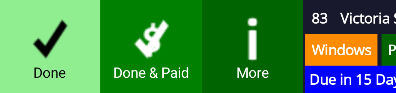
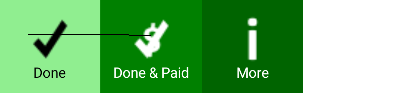
more work

Changed region(s): [[0.7576, 0.0, 1.0, 1.0], [0.0606, 0.3656, 0.3939, 0.3871]]

diff --git a/WorkTracker/Layouts/WorkPlanner.xaml b/WorkTracker/Layouts/WorkPlanner.xaml
@@ -287,7 +287,14 @@
                                     <MenuFlyoutItem Text="Edit Details" CommandParameter="{Binding Id}" Clicked="On_Job_Detials" />
                                 </MenuFlyout>
                             </FlyoutBase.ContextFlyout>
-                            <Grid TranslationX="-32" x:Name="g_workList" ChildAdded="g_childAdded">
+                            <!-- cancelled jobs collapse to this greyed single line -->
+                            <HorizontalStackLayout IsVisible="{Binding HaveCanceled}" Opacity="0.4" Padding="2">
+                                <Label Text="{Binding JobFormattedHouseNumber}" FontAttributes="Bold" TextDecorations="Strikethrough" Padding="4,2" />
+                                <Label Text="{Binding JobFormattedStreetOnly}" FontAttributes="Bold" TextDecorations="Strikethrough" Padding="4,2" />
+                                <Label Text="{Binding JobFormattedCity}" TextDecorations="Strikethrough" Padding="4,2" />
+                                <Label Text="Cancelled" TextColor="Red" FontAttributes="Bold" Padding="4,2" />
+                            </HorizontalStackLayout>
+                            <Grid TranslationX="-32" x:Name="g_workList" ChildAdded="g_childAdded" IsVisible="{Binding NotCanceled}">
                                 <Grid.RowDefinitions>
                                     <RowDefinition></RowDefinition>
                                     <RowDefinition></RowDefinition>
@@ -310,7 +317,7 @@
                                     IsChecked="{Binding IsSelected}"
                                     CheckedChanged="cb_streetSelected"  ClassId="{Binding Id}" PropertyChanged="test"></CheckBox>
 
-                                <ImageButton Grid.Column="3" Grid.Row="0" Grid.RowSpan="2" Source="info.png" Scale="1"  HeightRequest="30" Clicked="bnt_info_Clicked"  ClassId="{Binding Id}"></ImageButton>
+                                <ImageButton Grid.Column="3" Grid.Row="0" Grid.RowSpan="2" Source="info.png" HeightRequest="34" WidthRequest="34" Padding="5" CornerRadius="17" BackgroundColor="#1E88E5" HorizontalOptions="Center" VerticalOptions="Center" Clicked="bnt_info_Clicked"  ClassId="{Binding Id}"></ImageButton>
                                 <HorizontalStackLayout  Grid.Column="1" Grid.Row="0" Grid.ColumnSpan="2">
                                     <Label Text="{Binding JobFormattedHouseNumber}" FontAttributes="Bold" Padding="6" />
                                     <Label Text="{Binding JobFormattedStreetOnly}" FontAttributes="Bold" Padding="6" >

diff --git a/WorkTracker/Layouts/BookedWork.xaml b/WorkTracker/Layouts/BookedWork.xaml
@@ -24,6 +24,7 @@
                         <SwipeItems>
                             <SwipeItem Text="Done" IconImageSource="tick.png" CommandParameter="{Binding .}" BackgroundColor="#4CAF50" Invoked="On_Job_Compleated"/>
                             <SwipeItem Text="Done &amp; Paid" IconImageSource="donepaid.png" CommandParameter="{Binding .}" BackgroundColor="#2E7D32" Invoked="On_Job_Paid"/>
+                            <SwipeItem Text="More" IconImageSource="more.png" CommandParameter="{Binding .}" BackgroundColor="#546E7A" Invoked="On_Job_More"/>
                         </SwipeItems>
                     </SwipeView.LeftItems>
                     <SwipeView.RightItems>
@@ -45,6 +46,7 @@
                             <MenuFlyout>
                                 <MenuFlyoutItem Text="Done" CommandParameter="{Binding .}" Clicked="On_Job_Compleated"/>
                                 <MenuFlyoutItem Text="Done &amp; Paid" CommandParameter="{Binding .}" Clicked="On_Job_Paid"/>
+                                <MenuFlyoutItem Text="More" CommandParameter="{Binding .}" Clicked="On_Job_More"/>
                                 <MenuFlyoutSeparator/>
                                 <MenuFlyoutItem Text="Skip" CommandParameter="{Binding .}" Clicked="On_Job_Skipped"/>
                                 <MenuFlyoutItem Text="Cancel Job" CommandParameter="{Binding .}" Clicked="On_Job_Canceled"/>

diff --git a/WorkTracker/Layouts/ViewCustomerDetails.xaml b/WorkTracker/Layouts/ViewCustomerDetails.xaml
@@ -13,10 +13,8 @@
 
         <Label></Label>
 
-        <!-- grid overlay so the "Customer" caption always sits on the box's top
-             border no matter how tall the box is -->
         <Grid Padding="8">
-            <Border Stroke="{AppThemeBinding Light=black, Dark=white}" StrokeThickness="2" StrokeShape="Rectangle" Padding="4" Margin="0,14,0,0" >
+            <Border Stroke="{AppThemeBinding Light=black, Dark=white}" StrokeThickness="2" StrokeShape="Rectangle" Padding="4" >
                 <VerticalStackLayout>
 
                     <VerticalStackLayout Padding="8" HorizontalOptions="Center">
@@ -47,7 +45,6 @@
                     </HorizontalStackLayout>
                 </VerticalStackLayout>
             </Border>
-            <Label Text="Customer" FontAttributes="Bold" FontSize="Large" HorizontalOptions="Center" VerticalOptions="Start" Padding="8,0" BackgroundColor="{AppThemeBinding Light=white, Dark=black}"></Label>
         </Grid>
 
 

diff --git a/WorkTracker/Layouts/CalenderView.xaml b/WorkTracker/Layouts/CalenderView.xaml
@@ -141,7 +141,7 @@
 
                                 
 
-                                <ImageButton Grid.Column="3" Grid.Row="0" Grid.RowSpan="2" Source="info.png" Scale="1"  HeightRequest="30" Clicked="bnt_info_Clicked"  ClassId="{Binding Id}"></ImageButton>
+                                <ImageButton Grid.Column="3" Grid.Row="0" Grid.RowSpan="2" Source="info.png" HeightRequest="34" WidthRequest="34" Padding="5" CornerRadius="17" BackgroundColor="#1E88E5" HorizontalOptions="Center" VerticalOptions="Center" Clicked="bnt_info_Clicked"  ClassId="{Binding Id}"></ImageButton>
                                 <HorizontalStackLayout  Grid.Column="1" Grid.Row="0" Grid.ColumnSpan="2">
                                  
                                     <Label Text="{Binding JobFormattedHouseNumber}" FontAttributes="Bold" Padding="6" />

diff --git a/WorkTracker/Layouts/CalenderView.xaml.cs b/WorkTracker/Layouts/CalenderView.xaml.cs
@@ -327,7 +327,6 @@ public partial class CalenderView : ContentPage
 
         int x = 0, y = 1;
 
-        VerticalStackLayout vsl = null;
         Border border = null;
         _calenderDays.Clear();
         for (int i = 0; i < 7 * 6; i++)
@@ -394,46 +393,45 @@ public partial class CalenderView : ContentPage
         Label l = null;
         for (int i = 0; i < _calenderDays.Count; i++)
         {
-            vsl = new VerticalStackLayout();
-            
-            vsl.HorizontalOptions = LayoutOptions.StartAndExpand;
-            vsl.VerticalOptions = LayoutOptions.StartAndExpand;
+            //day number on top, then the figures separated into aligned columns:
+            //jobs total | job count | payments total
+            Grid cell = new Grid();
+            cell.ColumnDefinitions.Add(new ColumnDefinition(GridLength.Star));
+            cell.ColumnDefinitions.Add(new ColumnDefinition(GridLength.Star));
+            cell.ColumnDefinitions.Add(new ColumnDefinition(GridLength.Star));
+            cell.RowDefinitions.Add(new RowDefinition(GridLength.Auto));
+            cell.RowDefinitions.Add(new RowDefinition(GridLength.Auto));
+            cell.VerticalOptions = LayoutOptions.Start;
 
             l = new Label() { FontSize = 10 };
             l.BindingContext = _calenderDays[i];
             l.SetBinding(Label.TextProperty, "Day");
             l.SetBinding(Label.TextColorProperty, "TextColor");
-
-
-            vsl.Add(l);
-
+            cell.Add(l, 0, 0);
+            Grid.SetColumnSpan(l, 3);
 
             l = new Label() { FontSize = 12 };
             l.BindingContext = _calenderDays[i];
             l.SetBinding(Label.TextProperty, "FormatAmount");
             l.SetBinding(Label.TextColorProperty, "TextColor");
             l.SetBinding(Label.IsVisibleProperty, "ShowAmount");
-            vsl.Add(l);
+            cell.Add(l, 0, 1);
 
-            
             l = new Label() { FontSize = 12 };
             l.BindingContext = _calenderDays[i];
             l.SetBinding(Label.TextProperty, "FormatJobCount");
             l.SetBinding(Label.TextColorProperty, "TextColor");
             l.SetBinding(Label.IsVisibleProperty, "ShowJobCount");
-
-            vsl.Add(l);
+            l.HorizontalOptions = LayoutOptions.Center;
+            cell.Add(l, 1, 1);
 
             l = new Label() { FontSize = 12 };
             l.BindingContext = _calenderDays[i];
             l.SetBinding(Label.TextProperty, "FormatPayments");
             l.SetBinding(Label.TextColorProperty, "TextColor");
             l.SetBinding(Label.IsVisibleProperty, "ShowPayments");
-
-            vsl.Add(l);
-            // vsl.Add(new Label() { Text = $"{_calenderDays[i].EstimatedDuration}" });
-
-
+            l.HorizontalOptions = LayoutOptions.End;
+            cell.Add(l, 2, 1);
 
             border = new Border();
             border.ClassId = i.ToString();
@@ -442,7 +440,7 @@ public partial class CalenderView : ContentPage
             border.StrokeShape = new Rectangle();
             border.Padding = 1;
             border.MinimumHeightRequest = 42; //keep empty days tappable and the grid legible
-            border.Content = vsl;
+            border.Content = cell;
             //border.BackgroundColor = _calenderDays[i].BgColour;
             border.BindingContext = _calenderDays[i];
             border.SetBinding(Border.BackgroundColorProperty, "BgColour");

diff --git a/Kernel/Job.cs b/Kernel/Job.cs
@@ -1101,7 +1101,19 @@ namespace Kernel
         /// <summary>
         /// if the job has been canceld or not
         /// </summary>
-        public bool HaveCanceled { get; set; } = false;
+        private bool _haveCanceled = false;
+        public bool HaveCanceled
+        {
+            get { return _haveCanceled; }
+            set
+            {
+                _haveCanceled = value;
+                RaisePropertyChanged("HaveCanceled");
+                RaisePropertyChanged("NotCanceled");
+            }
+        }
+        [XmlIgnore]
+        public bool NotCanceled { get { return !_haveCanceled; } }
 
         public bool HaveSkipped { get; set; } = false;
 

diff --git a/WorkTracker/Layouts/BookedWork.xaml.cs b/WorkTracker/Layouts/BookedWork.xaml.cs
@@ -84,6 +84,14 @@ public partial class BookedWork : ContentPage
         Reload();
     }
 
+    private void On_Job_More(object sender, EventArgs e)
+    {
+        Job j = JobFrom(sender);
+        if (j == null)
+            return;
+        WorkPlanner.ShowJobInfo(j, this);
+    }
+
     private void On_Job_Details(object sender, EventArgs e)
     {
         Job j = JobFrom(sender);
